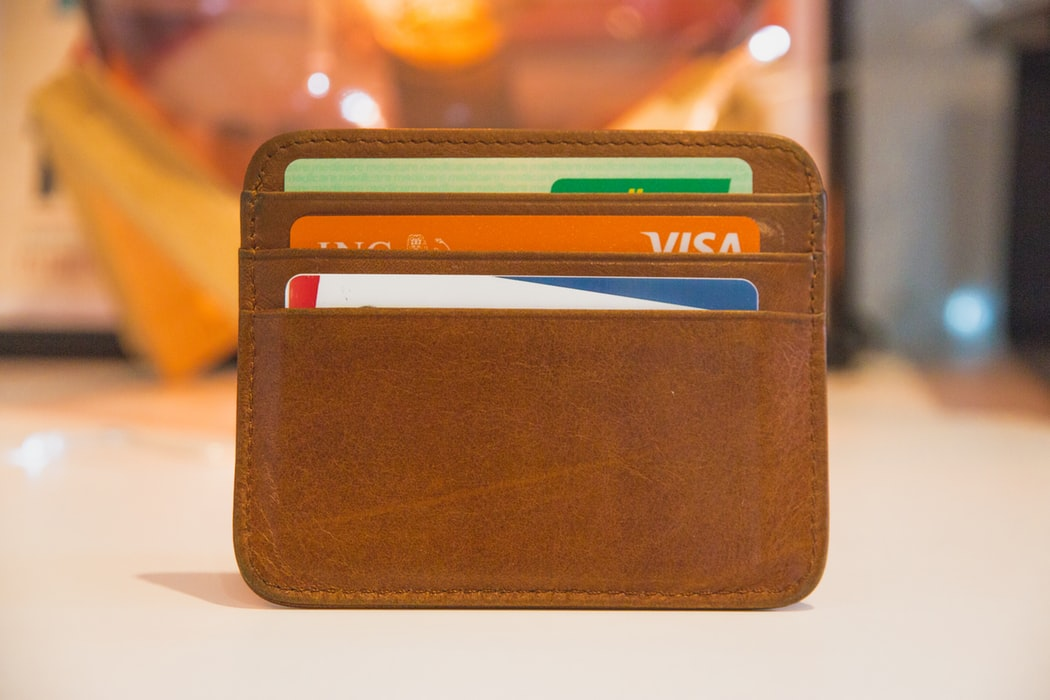
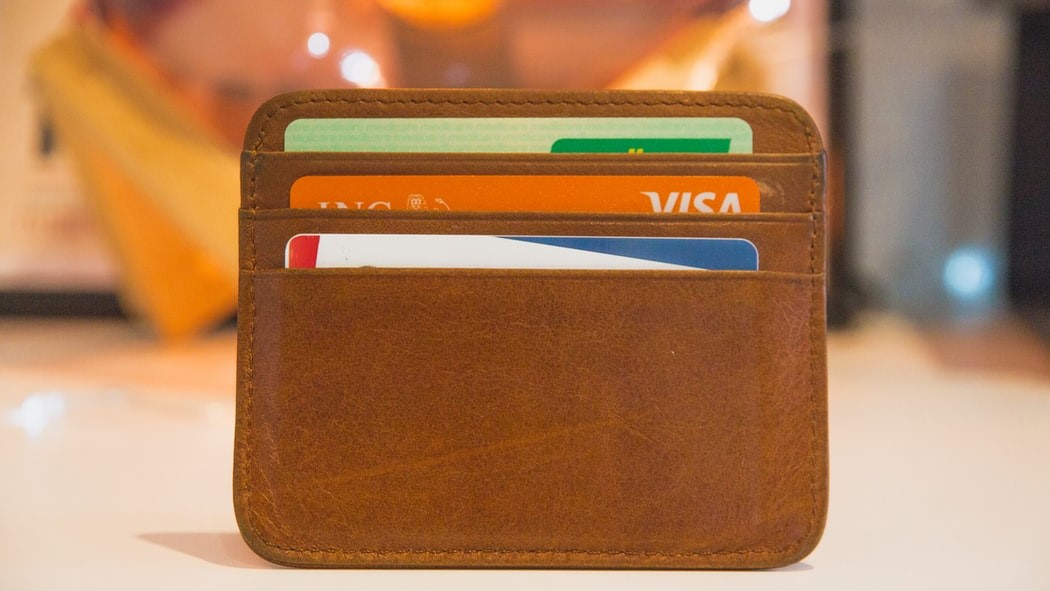
user page frontend done

diff --git a/src/components/userdetails.js b/src/components/userdetails.js
@@ -1,13 +1,46 @@
 import React, { useState } from 'react';
 import styled from 'styled-components';
-import { Form, Input, Icon, Button } from 'antd';
+import { Form, Icon } from 'antd';
 import { Link } from 'react-router-dom';
+import wallet5 from '../images/wallet5.jpg'
 
 const Box = styled.div`
-    box-shadow: 1px 1px 10px 3px lightgray;
-    width: 85%;
-    margin: 5%;
     padding: 2%;
+    width: 40%;
+    margin-top: 9%;
+
+`
+const Input = styled.input`
+    background: none;
+    border: 1px solid white;
+    font-size: 120%;
+    padding: 1%;
+    color: white;
+    margin-top: 3%;
+`
+const Button = styled.button`
+    background: none;
+    color: white;
+    font-size: 130%;
+    padding: 1.5%;
+    border: 1px solid white;
+    width: 40%;
+    margin-top: 2%;
+    :hover{
+        background: white;
+        opacity: 0.8;
+        color: black;
+        transition-duration: 1s;
+    }
+`
+const Main = styled.div`
+    background-image: url(${wallet5});
+    height: 100vh;
+    background-repeat: none;
+    background-position: center;
+    background-size: cover;
+    text-align:center;
+    padding-top: 1%;
 `
 function UserDetails() {
     const [acctname, setAcctName] = useState('');
@@ -17,18 +50,17 @@ function UserDetails() {
     const [branch, setBranch] = useState('');
     const [uniqueID, setUniqueId] = useState();
     return (
-        <div>user details page
+        <Main><center>
             <Box>
                 <Input onChange={e => { setAcctName(e.target.value) }} style={{ margin: '1%', width: '70%', display: 'block' }} placeholder="Account holder name" />
-                <Input onChange={e => { setAcctNo(e.target.value) }} style={{ margin: '1%', width: '70%', display: 'block' }} placeholder="Account Number" />
-                <Input onChange={e => { setBank(e.target.value) }} style={{ margin: '1%', width: '70%', display: 'block' }} placeholder="Bank" />
-                <Input onChange={e => { setIfsc(e.target.value) }} style={{ margin: '1%', width: '70%', display: 'block' }} placeholder="IFSC Code" />
-                <Input onChange={e => { setBranch(e.target.value) }} style={{ margin: '1%', width: '70%', display: 'block' }} placeholder="Branch name" />
-                <Button style={{ margin: '2%' }} htmlType="submit" type="primary"> Submit </Button>
-            </Box>
-            <Link to="/">
-                <Button> Back </Button></Link>
-        </div>
+                <br /> <Input onChange={e => { setAcctNo(e.target.value) }} style={{ margin: '1%', width: '70%', display: 'block' }} placeholder="Account Number" />
+                <br /><Input onChange={e => { setBank(e.target.value) }} style={{ margin: '1%', width: '70%', display: 'block' }} placeholder="Bank" />
+                <br /><Input onChange={e => { setIfsc(e.target.value) }} style={{ margin: '1%', width: '70%', display: 'block' }} placeholder="IFSC Code" />
+                <br /><Input onChange={e => { setBranch(e.target.value) }} style={{ margin: '1%', width: '70%', display: 'block' }} placeholder="Branch name" />
+                <br />  <Button style={{ margin: '2%' }} htmlType="submit" type="primary"> Submit </Button>
+            </Box></center>
+
+        </Main>
     )
 }
 
